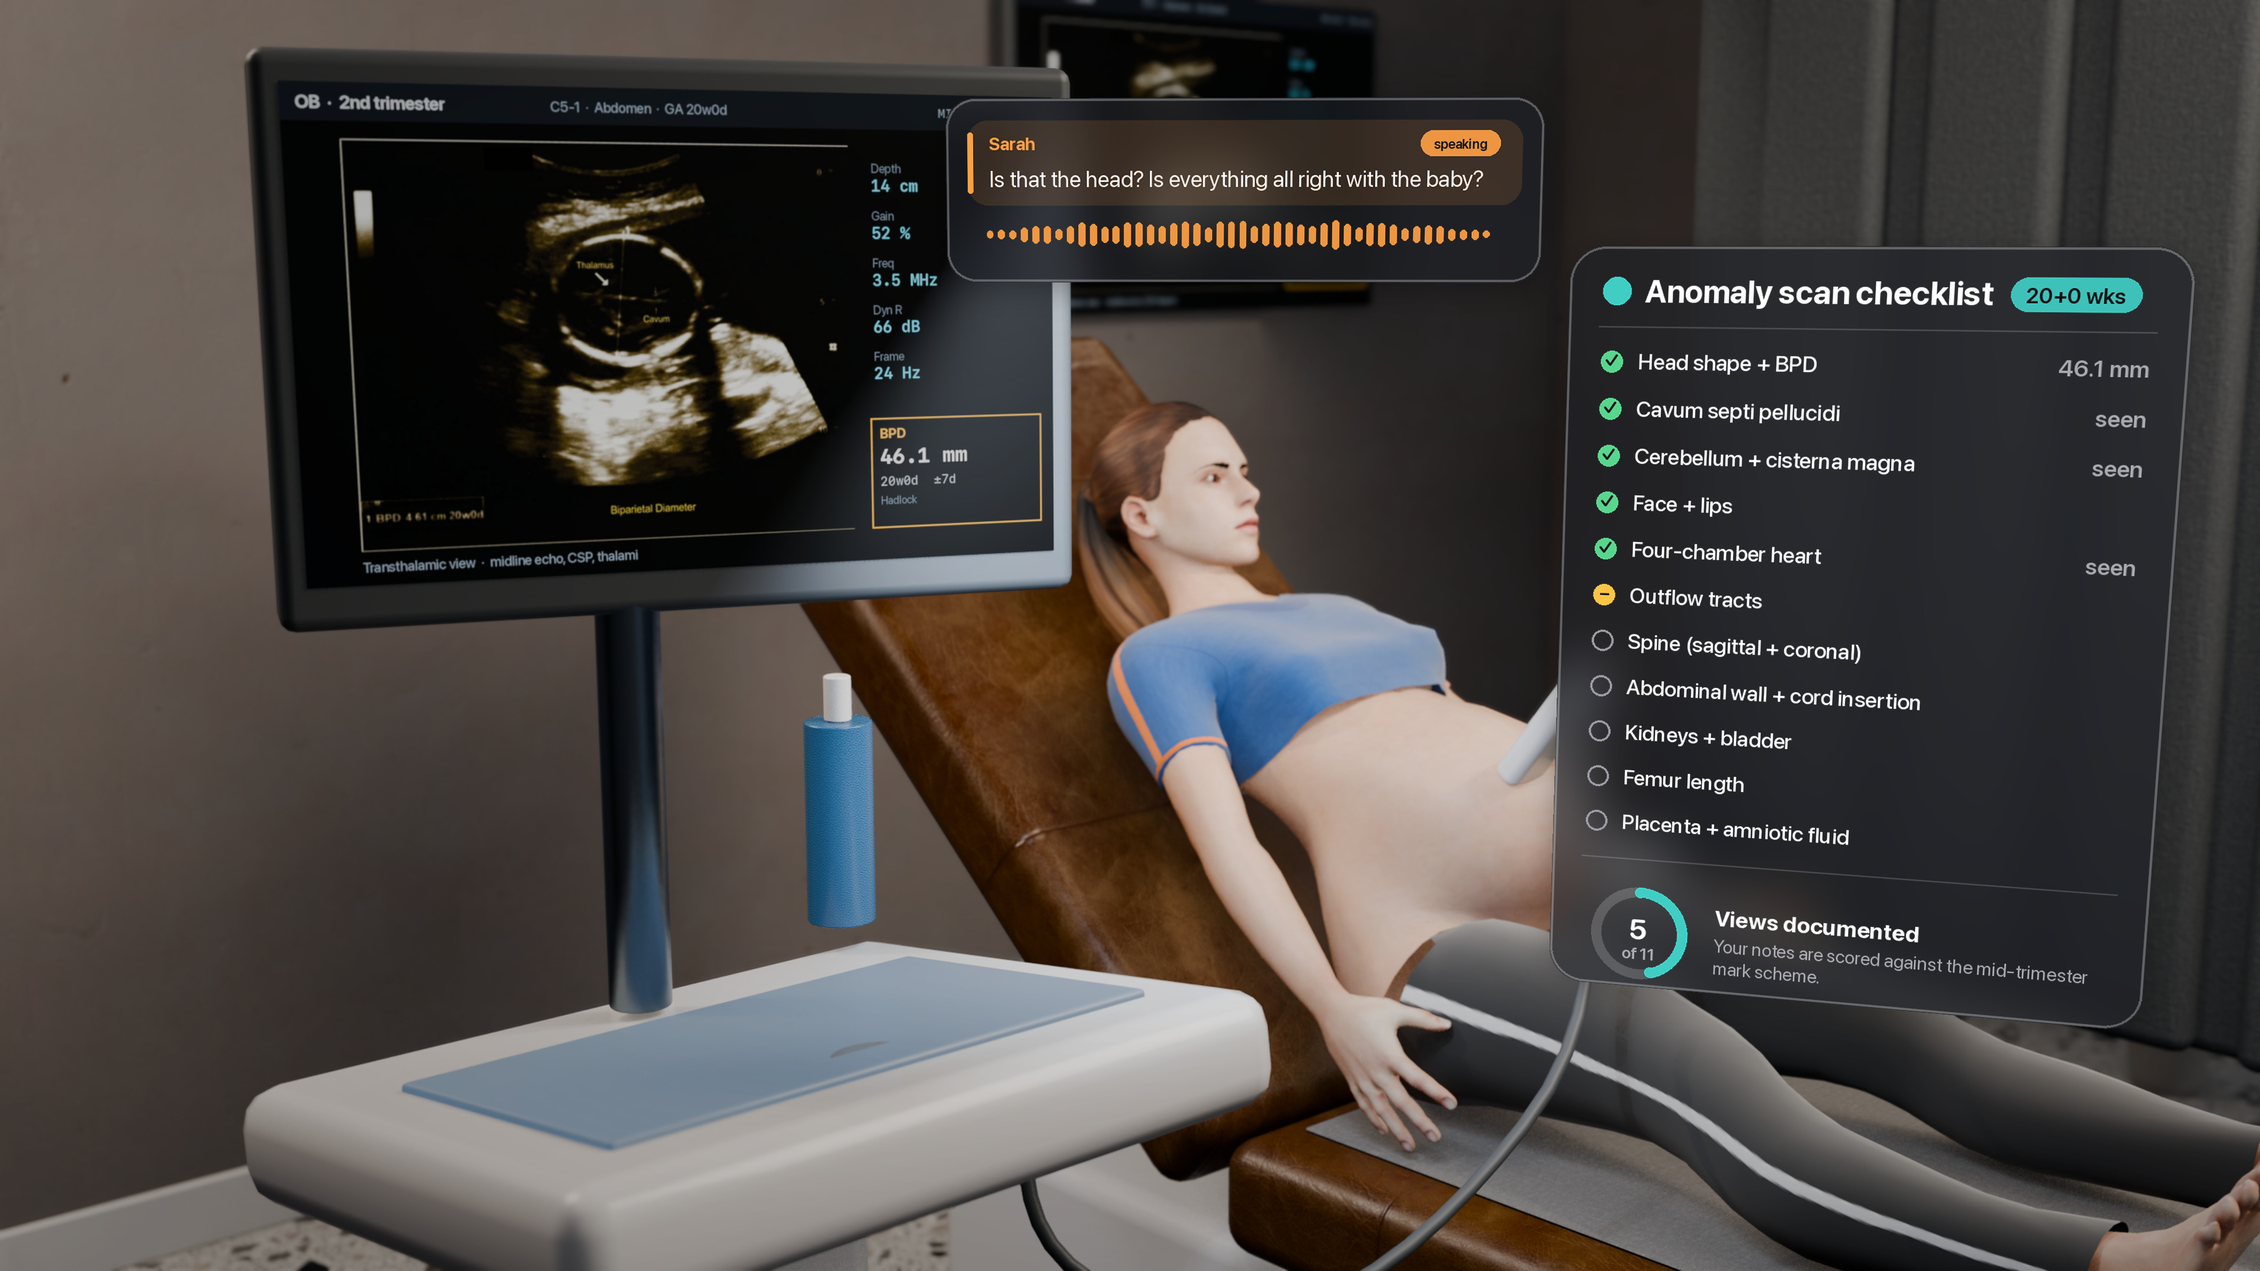
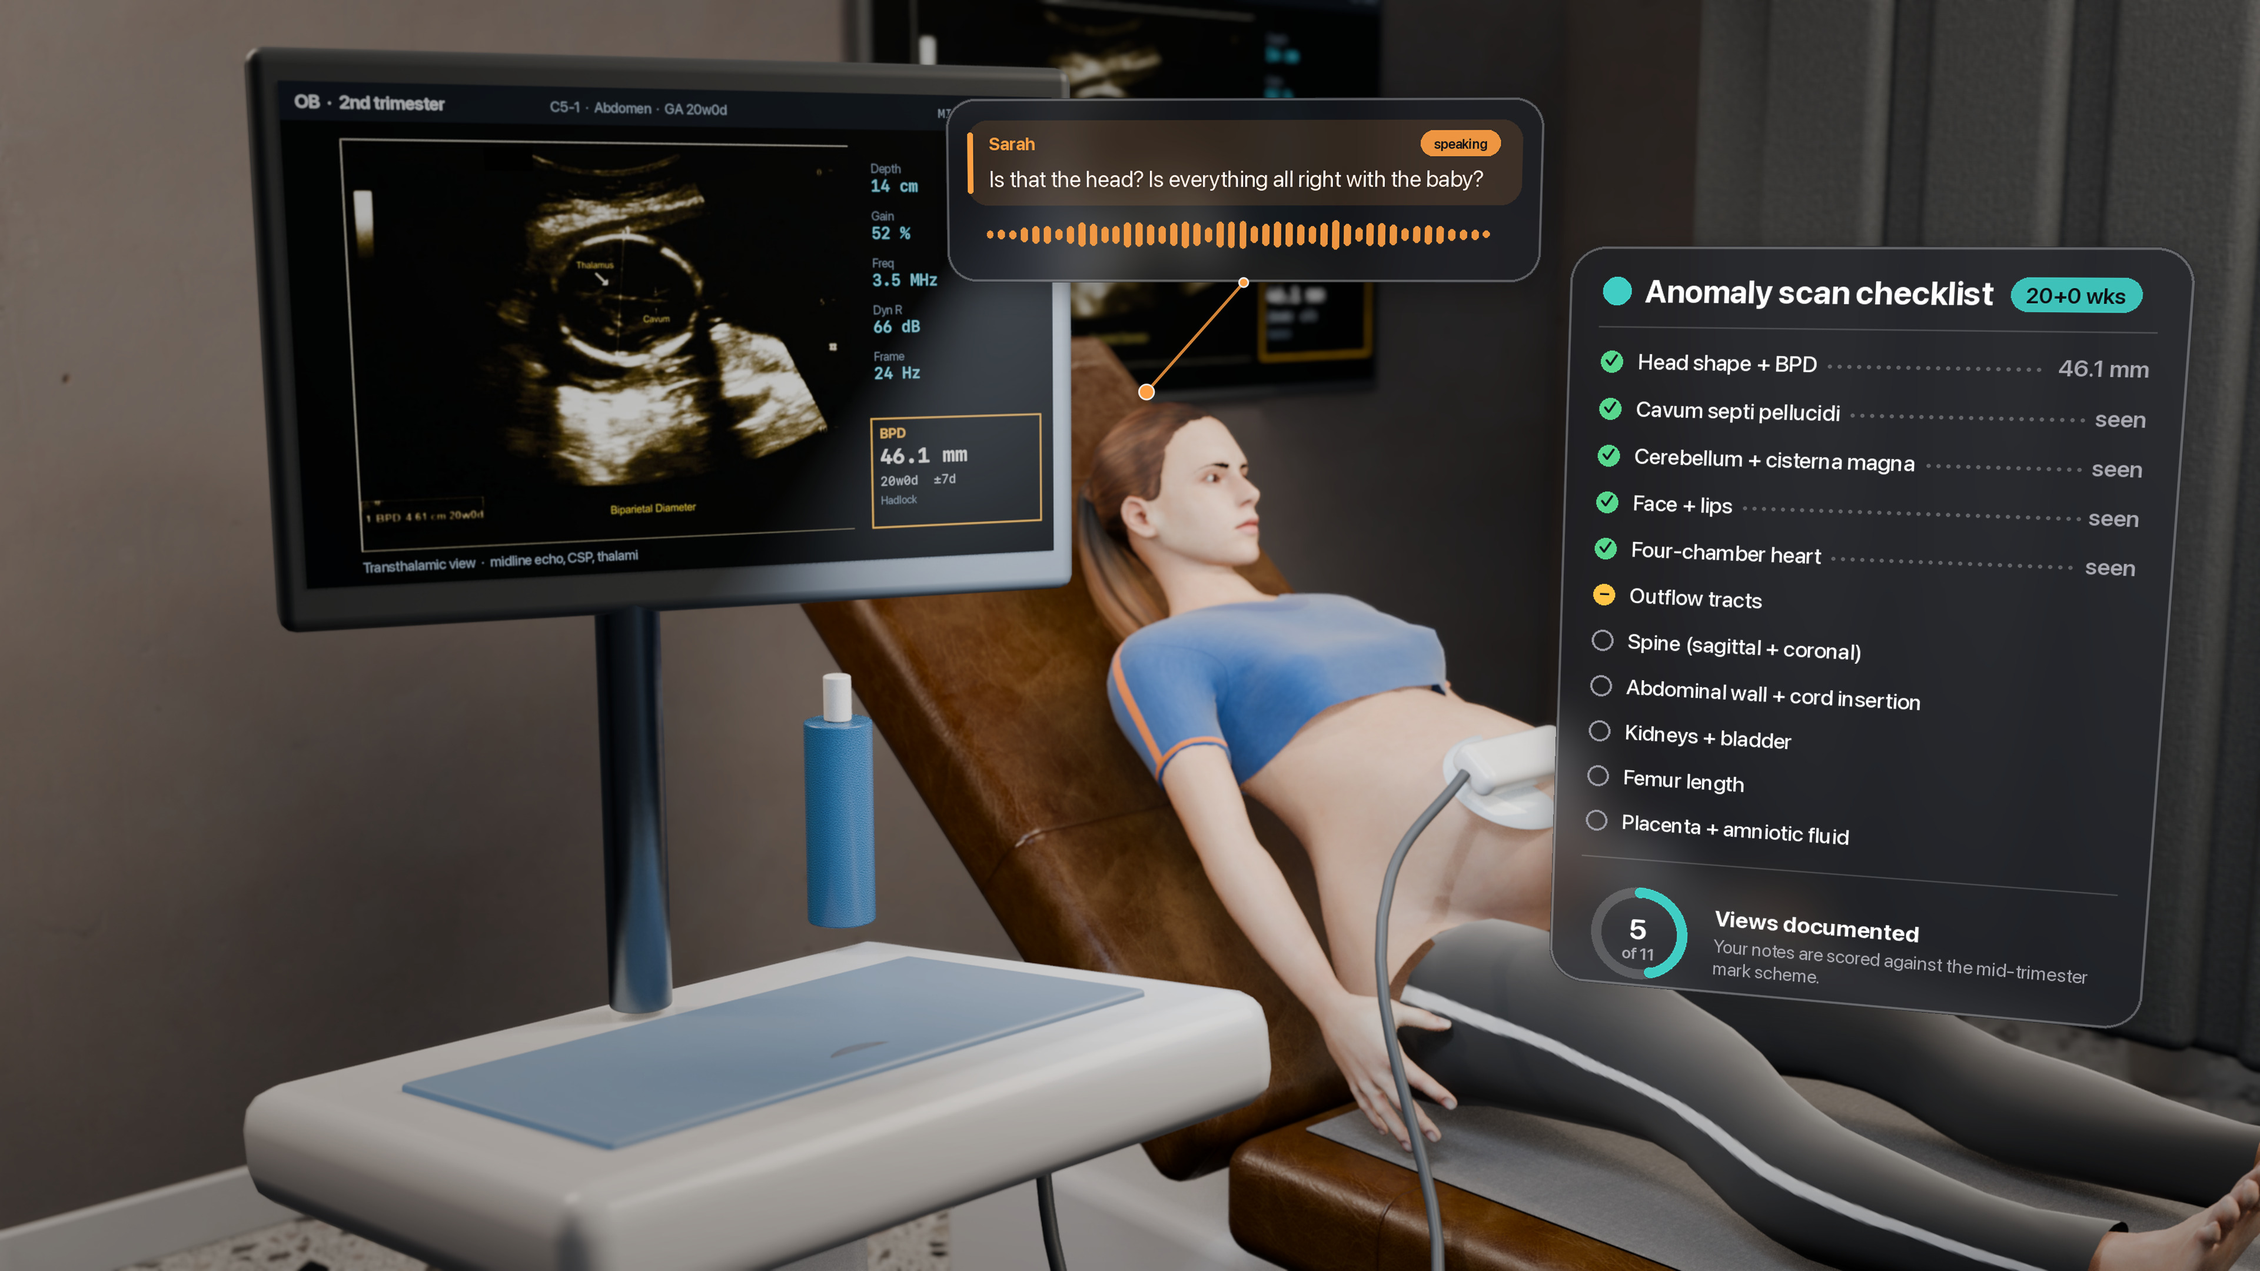
Pitch heroes: critic fixes (roadside kit/bike, speaker leaders, C-spine, row leaders, probe+gel, bigger wall screen, clinic key light)

diff --git a/assets/pitch_hero/hero_roadside.py b/assets/pitch_hero/hero_roadside.py
@@ -47,29 +47,21 @@ H.plane("edge_line", (0.12, 80), (-2.6, 20, 0.002), paint)
 root, rig, body = H.patient("Patient")
 P.guard_right_wrist(rig)
 bag_red = H.pbr("bag", "Fabric030", scale=6, tint=(0.75, 0.08, 0.06), rough_mul=0.9)
-H.box("bag", (0.62, 0.36, 0.44), (0, -0.02, 0.22), bag_red, bevel=0.05, segments=6)
-H.box("bag_strap", (0.64, 0.06, 0.02), (0, -0.02, 0.442), H.plain("strap", (0.05, 0.05, 0.05), rough=0.7), bevel=0.005)
+H.box("bag", (0.62, 0.36, 0.44), (0, -0.02, 0.22), bag_red, bevel=0.09, segments=8)
+strap = H.plain("strap", (0.04, 0.04, 0.045), rough=0.7)
 refl = H.plain("refl", (0.85, 0.85, 0.85), rough=0.2, metal=0.6)
-H.box("bag_band", (0.63, 0.37, 0.04), (0, -0.02, 0.15), refl, bevel=0.01)
-H.box("bag2", (0.5, 0.3, 0.3), (0.75, -0.45, 0.15), H.pbr("bag2", "Fabric030", scale=6, tint=(0.08, 0.35, 0.18)), bevel=0.04, rot=(0, 0, 0.5))
-H.cylinder("o2", 0.05, 0.6, (0.62, -0.2, 0.05), H.plain("o2c", (0.95, 0.95, 0.95), rough=0.25), rot=(math.pi / 2, 0, 1.3))
-H.gltf("medical_box", (-0.7, -0.5, 0), rot_z=30)
+H.box("bag_band", (0.6, 0.365, 0.025), (0, -0.02, 0.16), refl, bevel=0.008)
+H.box("bag_pocket", (0.46, 0.05, 0.2), (0, -0.215, 0.2), bag_red, bevel=0.03, segments=4)
+H.box("bag_zip", (0.44, 0.012, 0.012), (0, -0.242, 0.29), strap, bevel=0.003)
+for x in (-0.36, 0.36):  # carry straps down the ends
+    H.box("bag_strap", (0.02, 0.07, 0.4), (x * 0.86, -0.02, 0.22), strap, bevel=0.004)
+H.gltf("medical_box", (-0.75, -0.45, 0), rot_z=30)
 
-# ---- his bicycle lying on the road behind him
-frame_m = H.plain("bike", (0.05, 0.25, 0.6), rough=0.25, metal=0.3, coat=1.0)
+# ---- his cycle helmet, knocked off, on the road
+dome = [(0.0, 0.17)] + [(0.16 * math.sin(math.radians(a)), 0.17 * math.cos(math.radians(a))) for a in range(12, 91, 6)] + [(0.15, 0.0)]
+hm = H.lathe("helmet", dome[::-1], (0.95, -0.9, 0.0), H.plain("helmet", (0.92, 0.92, 0.9), rough=0.3, coat=1))
+hm.scale = (1.0, 1.35, 0.85); hm.rotation_euler = (0, math.radians(18), 0.7)
 tyre = H.pbr("tyre", "Rubber004", scale=4)
-bx, by = 0.9, 1.9
-for wx in (-0.52, 0.52):
-    bpy.ops.mesh.primitive_torus_add(major_radius=0.33, minor_radius=0.018, location=(bx + wx, by, 0.02), major_segments=64, minor_segments=12)
-    t = bpy.context.object; t.data.materials.append(tyre); t.rotation_euler = (0, 0, 0.35)
-    for p in t.data.polygons: p.use_smooth = True
-for a, b in (((-0.52, 0), (0.0, 0.0)), ((0.0, 0.0), (0.12, 0.5)), ((-0.52, 0), (0.12, 0.5)), ((0.12, 0.5), (0.55, 0.42)), ((0.55, 0.42), (0.52, 0.0)), ((0.0, 0.0), (0.05, 0.62))):
-    A, B = Vector((bx + a[0], by + a[1] * 0.25, 0.04)), Vector((bx + b[0], by + b[1] * 0.25 + 0.02, 0.04))
-    c = H.cylinder("tube", 0.016, (B - A).length, (A + B) / 2, frame_m, verts=16, bevel=0)
-    c.rotation_euler = (B - A).to_track_quat("Z", "Y").to_euler()
-H.box("saddle", (0.25, 0.1, 0.05), (bx + 0.05, by + 0.18, 0.04), H.plain("saddle", (0.03, 0.03, 0.03), rough=0.5))
-H.cylinder("helmet", 0.13, 0.1, (bx - 1.2, by - 0.6, 0.05), H.plain("helmet", (0.95, 0.85, 0.1), rough=0.3, coat=1))
-
 # ---- the car that hit him: dark estate, stopped askew, hazards on
 paint_car = H.plain("carpaint", (0.12, 0.13, 0.15), rough=0.25, metal=0.6, coat=1.0)
 glass = H.plain("carglass", (0.02, 0.02, 0.03), rough=0.05, metal=0.2, coat=1.0)
@@ -110,6 +102,8 @@ for i, x in enumerate((-0.75, -0.25, 0.25, 0.75)):
 for x in (-1.16, 1.16):  # grille / side strobes
     pl = H.point_light("blue_low", (x * 0.8, -2.95, 0.75), 1500, color=blue, radius=0.05); pl.parent = amb
     s = H.box("strobe", (0.18, 0.03, 0.06), (x * 0.8, -2.9, 0.75), H.plain("strobe", blue, emission=blue, estrength=15)); s.parent = amb
+H.point_light("rim_blue", (-0.7, 1.1, 1.7), 420, color=blue, radius=0.1).data.specular_factor = 0.0  # no glint in the windscreen
+H.spot_light("strobe_pool", (-1.2, 3.2, 2.0), 9000, (0.6, -0.8, 0), color=blue, angle=40, radius=0.05)
 H.spot_light("scene_lamp", (-1.2, 2.6, 2.4), 450, (0, 0, 0.8), color=(1.0, 0.93, 0.82), angle=55, radius=0.25)
 
 # ---- traffic cones, debris, barriers
@@ -130,8 +124,8 @@ P.stand(frig, froot, arms="phone", head_turn=-20)
 froot.location.x, froot.location.y = -2.2, 1.6; froot.rotation_euler.z = math.radians(54)
 mroot, mrig, mbody = H.patient("Patient")
 P.tint_clothes(mbody, (0.07, 0.07, 0.08), mix=0.7)
-P.stand(mrig, mroot, head_turn=10)
-mroot.location.x, mroot.location.y = 1.9, 2.9; mroot.rotation_euler.z = math.radians(-33)
+P.stand(mrig, mroot, arms="phone", head_turn=0)
+mroot.location.x, mroot.location.y = 2.2, 3.4; mroot.rotation_euler.z = math.radians(155)
 bpy.context.view_layer.update()
 
 
@@ -143,12 +137,12 @@ def shot(name, cam, target, lens, specs, fstop=2.8, focus=None):
 
 shot("hero-02-roadside", (0.55, -3.1, 1.55), (0.15, 1.0, 1.05), 32, [
     ("title", 0.0, 0.72, 3.4, 1.7, 0.34),
-    ("bystander", -0.55, 0.2, 2.2, 0.66, 0.24),
-    ("patient_rt", 0.5, 0.25, 2.2, 0.62, 0.2),
-    ("abcde", 0.66, -0.45, 1.9, 0.42, 0.33),
+    ("bystander", -0.43, 0.28, 2.2, 0.66, 0.24, (-2.12, 1.5, 1.22)),
+    ("patient_rt", 0.42, 0.2, 2.2, 0.62, 0.2, (0.12, -0.1, 1.02)),
+    ("abcde", 0.66, -0.43, 1.9, 0.42, 0.47),
 ], focus=3.0)
-shot("hero-02-roadside-b", (-2.4, -2.2, 0.85), (0.4, 1.4, 1.1), 28, [
+shot("hero-02-roadside-b", (-1.0, -2.7, 0.8), (0.3, 3.0, 1.15), 28, [
     ("title", 0.0, 0.72, 3.4, 1.9, 0.38),
-    ("bystander", -0.6, 0.15, 2.2, 0.72, 0.26),
-    ("patient_rt", -0.4, -0.45, 2.0, 0.66, 0.22),
-], focus=2.6)
+    ("bystander", -0.5, 0.3, 2.4, 0.72, 0.26, (-2.12, 1.5, 1.22)),
+    ("patient_rt", 0.69, -0.3, 2.0, 0.66, 0.22, (0.2, -0.08, 0.98)),
+], focus=2.9)

diff --git a/assets/pitch_hero/composite.py b/assets/pitch_hero/composite.py
@@ -122,7 +122,15 @@ def check_row(p, x, y, w, label, value, state, size=30):
     p.text((x + size + 20, y), label, size, "Medium")
     if value:
         f = font(size, "Semibold"); tw = p.d.textlength(value, font=f)
+        leader(p, x + size + 34 + p.d.textlength(label, font=font(size, "Medium")), x + w - tw - 14, y + size * 0.72)
         p.d.text((x + w - tw, y), value, font=f, fill=DIM)
+
+
+def leader(p, x0, x1, y, step=12):
+    """Dotted leader so a right-aligned value stays tied to its label once the panel is in perspective."""
+    x = x0
+    while x < x1:
+        p.d.ellipse((x, y - 2, x + 4, y + 2), fill=(255, 255, 255, 70)); x += step
 
 
 # ------------------------------------------------------------------ panel content
@@ -166,7 +174,8 @@ def p_score_clinic():
     p.chip(280, 98, "Pass", 24, GREEN, 60)
     y = 150
     for k, v in (("History", "7/8"), ("Examination", "6/7"), ("Communication", "5/6")):
-        p.text((280, y), k, 24, fill=DIM); f = font(24, "Semibold"); p.d.text((520 - p.d.textlength(v, font=f), y), v, font=f, fill=WHITE); y += 36
+        p.text((280, y), k, 24, fill=DIM); f = font(24, "Semibold"); tw = p.d.textlength(v, font=f)
+        leader(p, 290 + p.d.textlength(k, font=font(24)), 510 - tw, y + 17, 10); p.d.text((520 - tw, y), v, font=f, fill=WHITE); y += 36
     return p
 
 
@@ -180,7 +189,7 @@ def p_title_roadside():
         p.d.rounded_rectangle((x, 228, x + 300, 238), 5, fill=(*col, 255 if i == 0 else 60))
         p.text((x, 248), s, 26, "Semibold", fill=(*col, 255) if i == 0 else FAINT); x += 330
     p.text((1100, 70), "Cyclist vs car, 40 km/h", 30, "Semibold", fill=DIM)
-    p.text((1100, 114), "Dusk · wet road · 2 bystanders", 28, fill=DIM)
+    p.text((1100, 114), "Dusk · wet road · bystanders", 28, fill=DIM)
     return p
 
 
@@ -200,9 +209,10 @@ def p_patient_roadside():
 
 
 def p_abcde():
-    p = Panel(660, 520, 40); header(p, "Primary survey", TEAL, "ABCDE")
+    p = Panel(660, 580, 40); header(p, "Primary survey", TEAL, "<C>ABCDE")
     y = 132
-    for label, val, st in (("Catastrophic haemorrhage", "none", "ok"), ("Airway + C-spine", "talking, collar", "ok"),
+    for label, val, st in (("Catastrophic haemorrhage", "none", "ok"), ("Airway", "patent, talking", "ok"),
+                           ("C-spine", "not cleared", "part"),
                            ("Breathing", "RR 24, SpO₂ 95 %", "ok"), ("Circulation", "HR 118, CRT 3 s", "part"),
                            ("Disability", "", "todo"), ("Exposure", "", "todo")):
         check_row(p, 44, y, 580, label, val, st, 27); y += 60
@@ -213,7 +223,7 @@ def p_checklist_us():
     p = Panel(760, 1000); header(p, "Anomaly scan checklist", TEAL, "20+0 wks")
     y = 132
     for label, val, st in (("Head shape + BPD", "46.1 mm", "ok"), ("Cavum septi pellucidi", "seen", "ok"), ("Cerebellum + cisterna magna", "seen", "ok"),
-                           ("Face + lips", "", "ok"), ("Four-chamber heart", "seen", "ok"), ("Outflow tracts", "", "part"),
+                           ("Face + lips", "seen", "ok"), ("Four-chamber heart", "seen", "ok"), ("Outflow tracts", "", "part"),
                            ("Spine (sagittal + coronal)", "", "todo"), ("Abdominal wall + cord insertion", "", "todo"),
                            ("Kidneys + bladder", "", "todo"), ("Femur length", "", "todo"), ("Placenta + amniotic fluid", "", "todo")):
         check_row(p, 44, y, 672, label, val, st, 28); y += 62
@@ -283,10 +293,30 @@ def composite(name):
         out = Image.composite(glass, out, m)
         c = warp(p.im, quad, frame.size)
         out.paste(c, (0, 0), c)
+        if pm.get("anchor"):
+            speaker_line(out, quad, [pm["anchor"][0] * sx, pm["anchor"][1] * sy], SPEAKER[pm["name"]], frame.width / 3840)
     os.makedirs(DOCS, exist_ok=True)
     dst = os.path.join(DOCS, name + ".jpg")
     out.save(dst, quality=92, subsampling=0)
     print("WROTE", dst, out.size)
+
+
+SPEAKER = {"bystander": VIOLET, "patient_rt": ORANGE, "patient_us": ORANGE, "conversation": ORANGE}
+
+
+def speaker_line(out, quad, a, col, k):
+    """Leader from the panel edge (nearest edge midpoint) to the speaker, drawn 3x supersampled."""
+    mids = [((quad[i][0] + quad[(i + 1) % 4][0]) / 2, (quad[i][1] + quad[(i + 1) % 4][1]) / 2) for i in range(4)]
+    m = min(mids, key=lambda q: (q[0] - a[0]) ** 2 + (q[1] - a[1]) ** 2)
+    x0, y0 = min(m[0], a[0]) - 40, min(m[1], a[1]) - 40; x1, y1 = max(m[0], a[0]) + 40, max(m[1], a[1]) + 40
+    S = 3; lay = Image.new("RGBA", (int((x1 - x0) * S), int((y1 - y0) * S)), (0, 0, 0, 0)); d = ImageDraw.Draw(lay)
+    P = lambda q: ((q[0] - x0) * S, (q[1] - y0) * S)
+    d.line((P(m), P(a)), fill=(*col, 210), width=int(5 * k * S))
+    for (q, r) in ((m, 9), (a, 14)):
+        cx, cy = P(q); r *= k * S
+        d.ellipse((cx - r, cy - r, cx + r, cy + r), fill=(*col, 255), outline=(255, 255, 255, 230), width=int(3 * k * S))
+    lay = lay.resize((int(x1 - x0), int(y1 - y0)), Image.LANCZOS)
+    out.paste(lay, (int(x0), int(y0)), lay)
 
 
 def us_screen():

diff --git a/assets/pitch_hero/hero_ultrasound.py b/assets/pitch_hero/hero_ultrasound.py
@@ -72,18 +72,23 @@ H.cylinder("gel_cap", 0.012, 0.04, (mx + 0.24, my + 0.18, 1.1), H.plain("cap", (
 # probe on the abdomen (normal from the avatar's anchors), cable to the machine
 pc = av(meta["anchors"]["abdomen_right"]) * 0.4 + av(meta["anchors"]["abdomen_center"]) * 0.6
 n = av(meta["normals"]["abdomen_center"]).normalized()
-probe = H.box("probe", (0.055, 0.03, 0.15), pc + n * 0.075, H.plain("probe", (0.92, 0.92, 0.93), rough=0.25, coat=0.6), bevel=0.012, segments=5)
-probe.rotation_euler = n.to_track_quat("Z", "Y").to_euler()
+# probe resting flat in a gel pool along her right flank, cable slack down to the machine
+tg = (Vector((-1, 0, 0)) - n * n.x).normalized()
+from mathutils import Matrix
+probe = H.box("probe", (0.055, 0.032, 0.15), pc + n * 0.03 + tg * 0.02, H.plain("probe", (0.92, 0.92, 0.93), rough=0.25, coat=0.6), bevel=0.012, segments=5)
+probe.rotation_euler = Matrix((n.cross(tg), n, tg)).transposed().to_euler()
+gelpool = H.lathe("gelpool", [(0.07, 0.0), (0.065, 0.006), (0.04, 0.011), (0.0, 0.013)], pc - n * 0.004, H.plain("gelp", (0.72, 0.84, 0.95), rough=0.04, coat=1.0))
+gelpool.rotation_euler = n.to_track_quat("Z", "Y").to_euler(); gelpool.scale = (1.3, 0.9, 1.0)
 cab = bpy.data.curves.new("cable", "CURVE"); cab.dimensions = "3D"; cab.bevel_depth = 0.006
-sp = cab.splines.new("BEZIER"); pts = [pc + n * 0.15, Vector((-0.35, -0.35, 0.75)), Vector((mx + 0.2, my - 0.2, 0.7)), Vector((mx + 0.25, my - 0.05, 0.9))]
+sp = cab.splines.new("BEZIER"); pts = [pc + n * 0.03 + tg * 0.1, pc + n * 0.02 + tg * 0.2 - Vector((0, 0, 0.08)), Vector((-0.42, -0.3, 0.55)), Vector((mx + 0.2, my - 0.25, 0.62)), Vector((mx + 0.25, my - 0.05, 0.9))]
 sp.bezier_points.add(len(pts) - 1)
 for bp, p in zip(sp.bezier_points, pts): bp.co = p; bp.handle_left_type = bp.handle_right_type = "AUTO"
 co = H.link(bpy.data.objects.new("cable", cab)); cab.materials.append(dark)
 
 # ---- wall screen for the mother (mirror of the scan), cabinet, clock, plant
-ws = bpy.data.objects.new("wallscreen", None); H.link(ws); ws.location = (1.4, Y1 - 0.04, 1.65)
-o = H.box("ws_body", (1.0, 0.04, 0.6), (0, 0, 0), dark, bevel=0.01); o.parent = ws
-o = H.plane("ws_img", (0.96, 0.6), (0, -0.022, 0), H.image_emit("screen2", os.path.join(H.OUT, "us_screen.png"), strength=1.2, gloss_coat=0.0, rough=0.6), rot=(math.radians(90), 0, 0)); o.parent = ws
+ws = bpy.data.objects.new("wallscreen", None); H.link(ws); ws.location = (1.25, Y1 - 0.04, 1.6)
+o = H.box("ws_body", (1.34, 0.04, 0.86), (0, 0, 0), dark, bevel=0.01); o.parent = ws
+o = H.plane("ws_img", (1.3, 0.8125), (0, -0.022, 0), H.image_emit("screen2", os.path.join(H.OUT, "us_screen.png"), strength=1.2, gloss_coat=0.0, rough=0.6), rot=(math.radians(90), 0, 0)); o.parent = ws
 H.gltf("drawer_cabinet", (-2.2, 1.62, 0), rot_z=180, scale=0.75)
 H.gltf("wall_clock", (-1.7, Y1 - 0.005, 2.0), rot_z=180)
 H.gltf("potted_plant_04", (2.2, 0.2, 0), rot_z=20)
@@ -110,11 +115,11 @@ def shot(name, cam, target, lens, specs, fstop=3.2, focus=None):
     H.render(name)
 
 
-shot("hero-03-ultrasound", (0.9, -2.6, 1.6), (-0.35, 0.05, 1.1), 30, [
-    ("checklist", 0.64, 0.0, 1.8, 0.5, 0.66),
-    ("patient_us", -0.05, 0.68, 2.4, 0.66, 0.2),
-], focus=2.75)
+shot("hero-03-ultrasound", (0.55, -2.05, 1.55), (-0.4, 0.1, 1.15), 28, [
+    ("checklist", 0.66, -0.02, 1.5, 0.42, 0.553),
+    ("patient_us", -0.02, 0.72, 2.0, 0.6, 0.183, av(meta["anchors"]["head"]) + Vector((0, 0.02, 0.09))),
+], focus=2.3)
 shot("hero-03-ultrasound-b", (-1.9, -1.55, 1.5), (-0.3, 0.2, 1.1), 38, [
     ("checklist", 0.64, 0.0, 1.8, 0.44, 0.58),
-    ("patient_us", 0.1, 0.7, 2.4, 0.6, 0.183),
+    ("patient_us", 0.1, 0.7, 2.4, 0.6, 0.183, av(meta["anchors"]["head"]) + Vector((0, 0.02, 0.09))),
 ], fstop=2.8, focus=2.0)

diff --git a/assets/pitch_hero/hero_common.py b/assets/pitch_hero/hero_common.py
@@ -438,7 +438,10 @@ def write_panels(panels, path):
             co = world_to_camera_view(sc, cam, Vector(v))
             quad.append([round(co.x * W, 2), round((1 - co.y) * H, 2)])
         depth = (Vector(p["corners"][0]) - cam.location).length
-        out.append(dict({k: v for k, v in p.items() if k != "corners"}, quad=quad, depth=round(depth, 3)))
+        extra = {}
+        if p.get("anchor"):  # speaker point for the bubble's leader line
+            co = world_to_camera_view(sc, cam, Vector(p["anchor"])); extra["anchor"] = [round(co.x * W, 2), round((1 - co.y) * H, 2)]
+        out.append(dict({k: v for k, v in p.items() if k not in ("corners", "anchor")}, quad=quad, depth=round(depth, 3), **extra))
     json.dump({"width": W, "height": H, "panels": out}, open(path, "w"), indent=1)
 
 
@@ -463,7 +466,7 @@ def screen_panels(specs):
     fr = cam.data.view_frame(scene=sc)  # local corners at some depth
     fx = max(abs(v.x) for v in fr); fy = max(abs(v.y) for v in fr); fz = abs(fr[0].z)
     out = []
-    for name, sx, sy, dist, w, h in specs:
+    for name, sx, sy, dist, w, h, *anchor in specs:
         p = cam.matrix_world @ (Vector((sx * fx, sy * fy, -fz)) * (dist / fz))
-        out.append(dict(name=name, corners=panel_quad(p, w, h, cam.matrix_world.translation)))
+        out.append(dict(name=name, corners=panel_quad(p, w, h, cam.matrix_world.translation), anchor=anchor[0] if anchor else None))
     return out

diff --git a/assets/pitch_hero/hero_clinic.py b/assets/pitch_hero/hero_clinic.py
@@ -39,6 +39,7 @@ for x, y in ((-1.2, -1.2), (1.2, -1.2), (-1.2, 0.8), (1.2, 0.8)):
 # window light from camera-right (window off frame on the right wall)
 H.area_light("window", (X1 - 0.1, -0.6, 1.6), 2.4, 520, color=(0.86, 0.92, 1.0), target=(0, -0.2, 1.0), size_y=1.6)
 H.area_light("fill", (-1.0, -3.0, 2.0), 2.0, 70, color=(1.0, 0.93, 0.85), target=(0, 0, 1.0))
+H.area_light("face_key", (0.9, -1.5, 1.9), 0.6, 45, color=(1.0, 0.8, 0.6), target=(0, 0, 1.25))  # warm key for contrast on Alex
 
 # ---- patient
 root, rig, body = H.patient("Patient")
@@ -86,7 +87,7 @@ def shot(name, cam, target, lens, specs, fstop=4.0, focus=None):
 
 
 shot("hero-01-clinic", (0.62, -2.45, 1.6), (0.0, 0, 1.15), 32, [
-    ("conversation", -0.56, 0.5, 1.9, 0.64, 0.355),
+    ("conversation", -0.6, 0.5, 1.9, 0.58, 0.322),
     ("score", -0.62, -0.12, 1.9, 0.38, 0.2),
     ("notebook", 0.62, 0.05, 1.7, 0.5, 0.61),
 ], focus=2.5)
